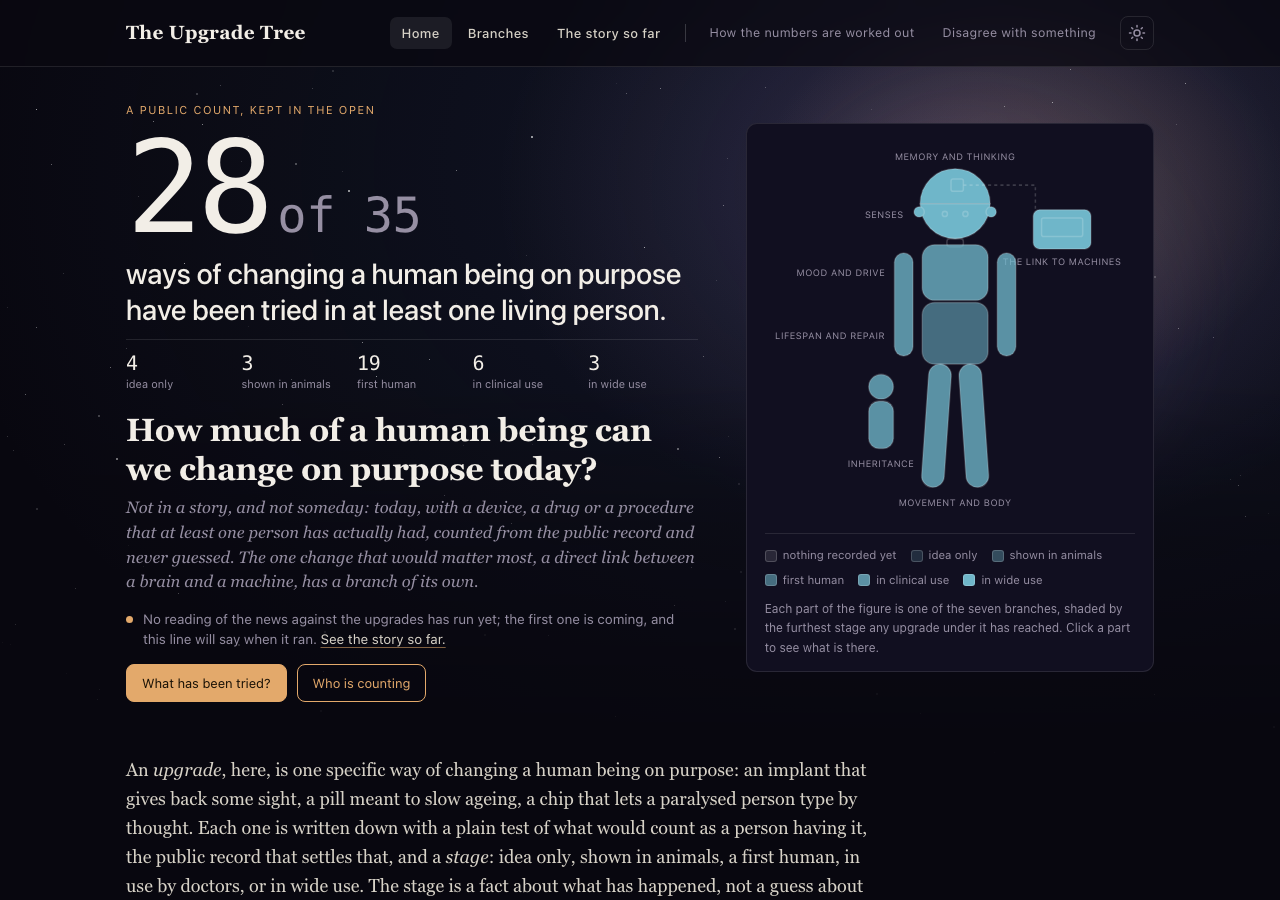
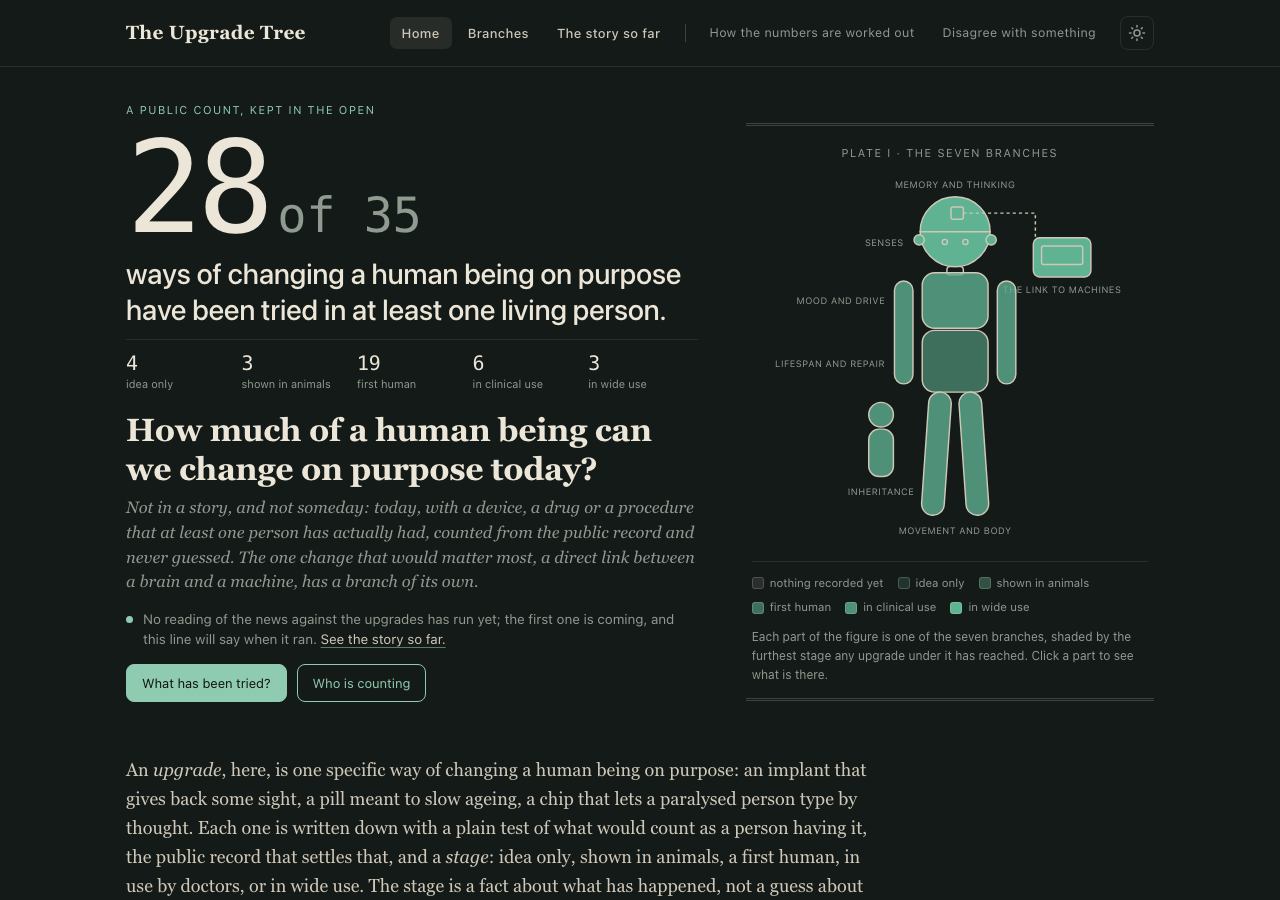
2026-10-16: the type-check picture retaken after the Plate skin landed on main

Changed region(s): [[0.5312, 0.0622, 1.0, 0.7778], [0.0938, 0.7156, 0.3125, 0.7778]]

diff --git a/CHANGELOG.md b/CHANGELOG.md
@@ -8,7 +8,7 @@ Every change to the record, the stage ladder or the site, with absolute dates. N
 - The first reading, done by hand on 2026-10-16 (record at data/readings/2026-10-16.toml): all 35 upgrades read, 75 searches, none moved, two noted (the first United States patient with a bone-anchored arm with implanted nerve and muscle electrodes, 2026-09-17, in a study and not under an approval; and the Australian regulator's page the psychedelic entry could not load earlier in the day, read tonight and matching the entry, a claim the verify session cleared the same evening), one flagged for John: the FDA approved Regeneron's Otarmeni, the first gene therapy for a genetic hearing loss, on 2026-04-23, so the hearing gene therapy entry's note that no regulator had approved one is wrong and the entry would move to in clinical use. Two claims still to check were looked at and not settled (the first mitochondrial-donation child's exact birth date; whether the 2016 Pittsburgh touch paper itself includes the robotic hand), and a third was found supported but unread (Vidal's 1977 maze-by-brain-signal paper as an earlier first human for the scalp headset).
 - The site: the home page's last-checked strip now reads the latest reading (the date written out, how many upgrades were read, what moved, what waits on John); a "This week's reading" page at /reading/ in the top bar's heavier tier, with every run newest first, the items grouped by branch, the flagged items waiting on John, and a key to the four verdicts; each upgrade page shows its last three readings. The page, the strip and the verdict badges are copied from The Belt Equation's Radar with a comment saying so. The top bar, now six page names, sits tighter below 1320 pixels and collapses behind the menu button below 1080, as The Quiet Galaxy's does.
 - The scheduled run: docs/weekly-reading-prompt.md is the standalone instruction a fresh session follows, and a scheduled task on John's Mac ("Upgrade Tree: weekly reading of the upgrades against the news", Sundays at 18:00 Pacific) opens the repository and follows it. The task can be switched off in the app's Scheduled section; moving it to a cloud routine so it does not need the Mac awake is proposed, not done.
-- Home page checked against the tracker pattern's type roles after the family design review of 2026-10-16 (the sans for an answer, the monospace with aligned figures for a number, the serif only for prose): the count "28 of 35" is in the monospace with aligned figures and its claim in the sans, so nothing changed; the question under them stays in the serif, as the parent site's does. The picture at 1280 pixels is `docs/home-page-2026-10-16-type-check.png`.
+- Home page checked against the tracker pattern's type roles after the family design review of 2026-10-16 (the sans for an answer, the monospace with aligned figures for a number, the serif only for prose): the count "28 of 35" is in the monospace with aligned figures and its claim in the sans, so nothing changed; the question under them stays in the serif, as the parent site's does. The picture at 1280 pixels is `docs/home-page-2026-10-16-type-check.png`, taken after the Plate skin landed, in the dark theme.
 - The site wears its own skin, "Plate": warm paper, ink and one plate green, with the human figure standing on the page between double rules like a plate in an anatomy book, light by default (dark kept for readers who ask for it), no starfield, no galaxy, no web font. Proposed with mock-ups in the Sentient Horizons design standard (`design/proposals/upgrade-tree-skin-2026-10-16.md`) and ruled by John on 2026-10-16 after the standard split into a shared skeleton and a skin per site. The stylesheet is now `skin.css` (this site's tokens) plus the shared `shell.css` 2.0.1 plus the site's own rules; the starfield component is gone; the favicon and the browser's theme colour take the paper and the green. The skeleton copy also fixes a bug the whole family had: in the light theme a solid button's text took the link colour and all but vanished. Pictures before and after in `docs/site-2026-10-16-*.jpg`.
 - The six claims written from memory were checked against their primary records on 2026-10-16. Three are settled and their notes removed: the Australian regulator's notice of 3 February 2023 on psilocybin and MDMA (in force 1 July 2023) says what the entry says; the company's own newsroom links its embryo-product launch release, dated 4 June 2025; and the 2016 Pittsburgh paper does include touch from a prosthetic hand's sensors (84.3 per cent of finger touches identified), so the touch entry's record stands. One moved: the headset entry's in-wide-use date goes from 2015-12-31 to 2014-08-28, the earliest dated copy in the Internet Archive of the maker's page that says over a million of its chips are in circulation (revision recorded on the entry). Two remain open, each reworded to say what was tried: the birth date of the first child born with a donor's mitochondria (the paper gives no birth date, so 2016-04-06 still rests on press coverage) and Vidal's 1977 paper (only its abstract is readable, and it does not mention the maze). No stage changed. The count is unchanged at 28 of 35.
 - Home page first screen redesigned to the tracker pattern's section 1.3 order in The Belt Equation's layout: the count in the largest type with its claim and the five-rung totals, then the question, one paragraph, the last-checked strip and two buttons ("What has been tried?", "Who is counting"), with the figure beside them; the whole first screen fits at 1280 by 720. Asked by John on 2026-10-16 so a new reader meets the answer before the question.
